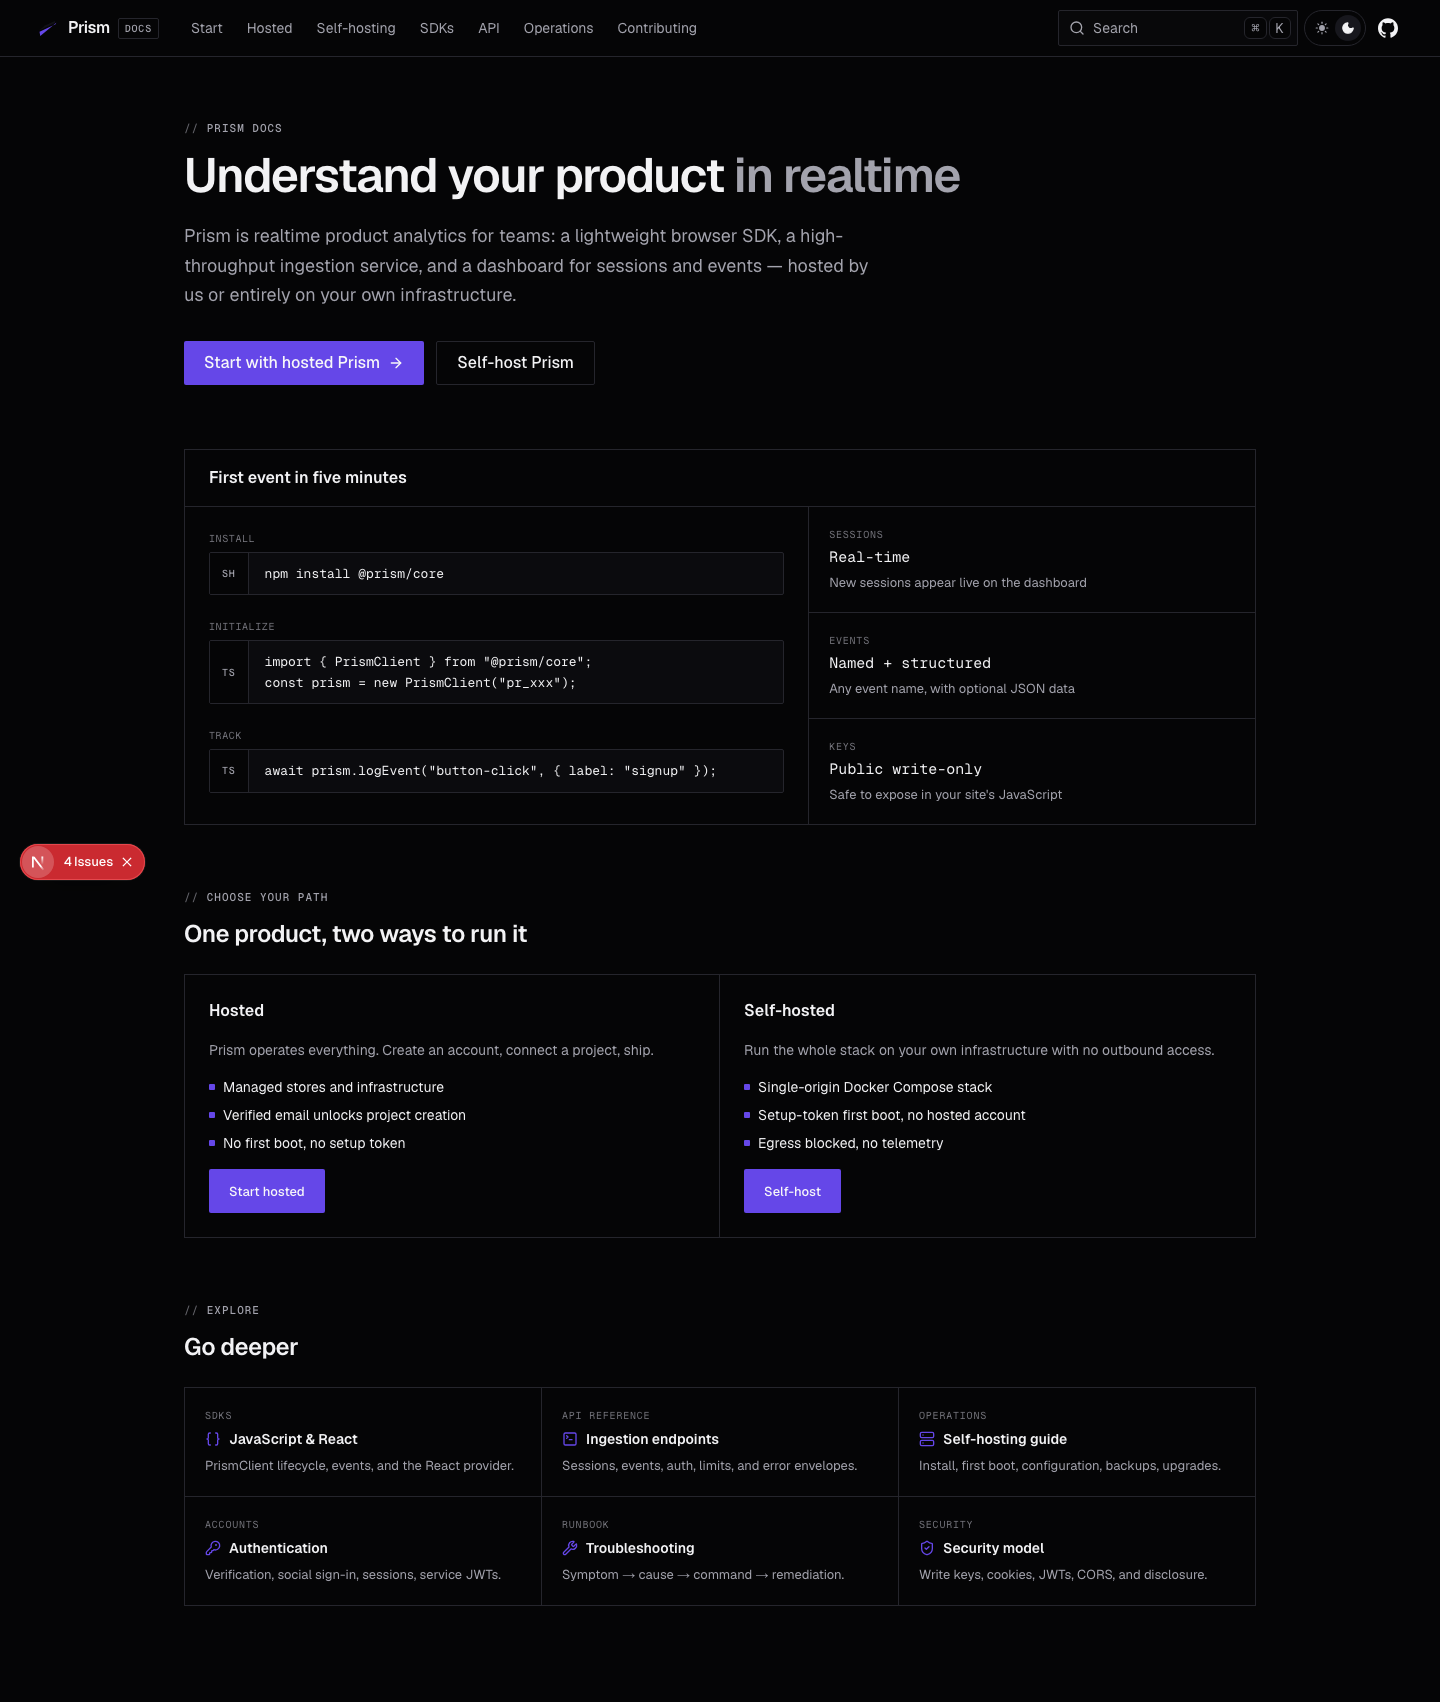
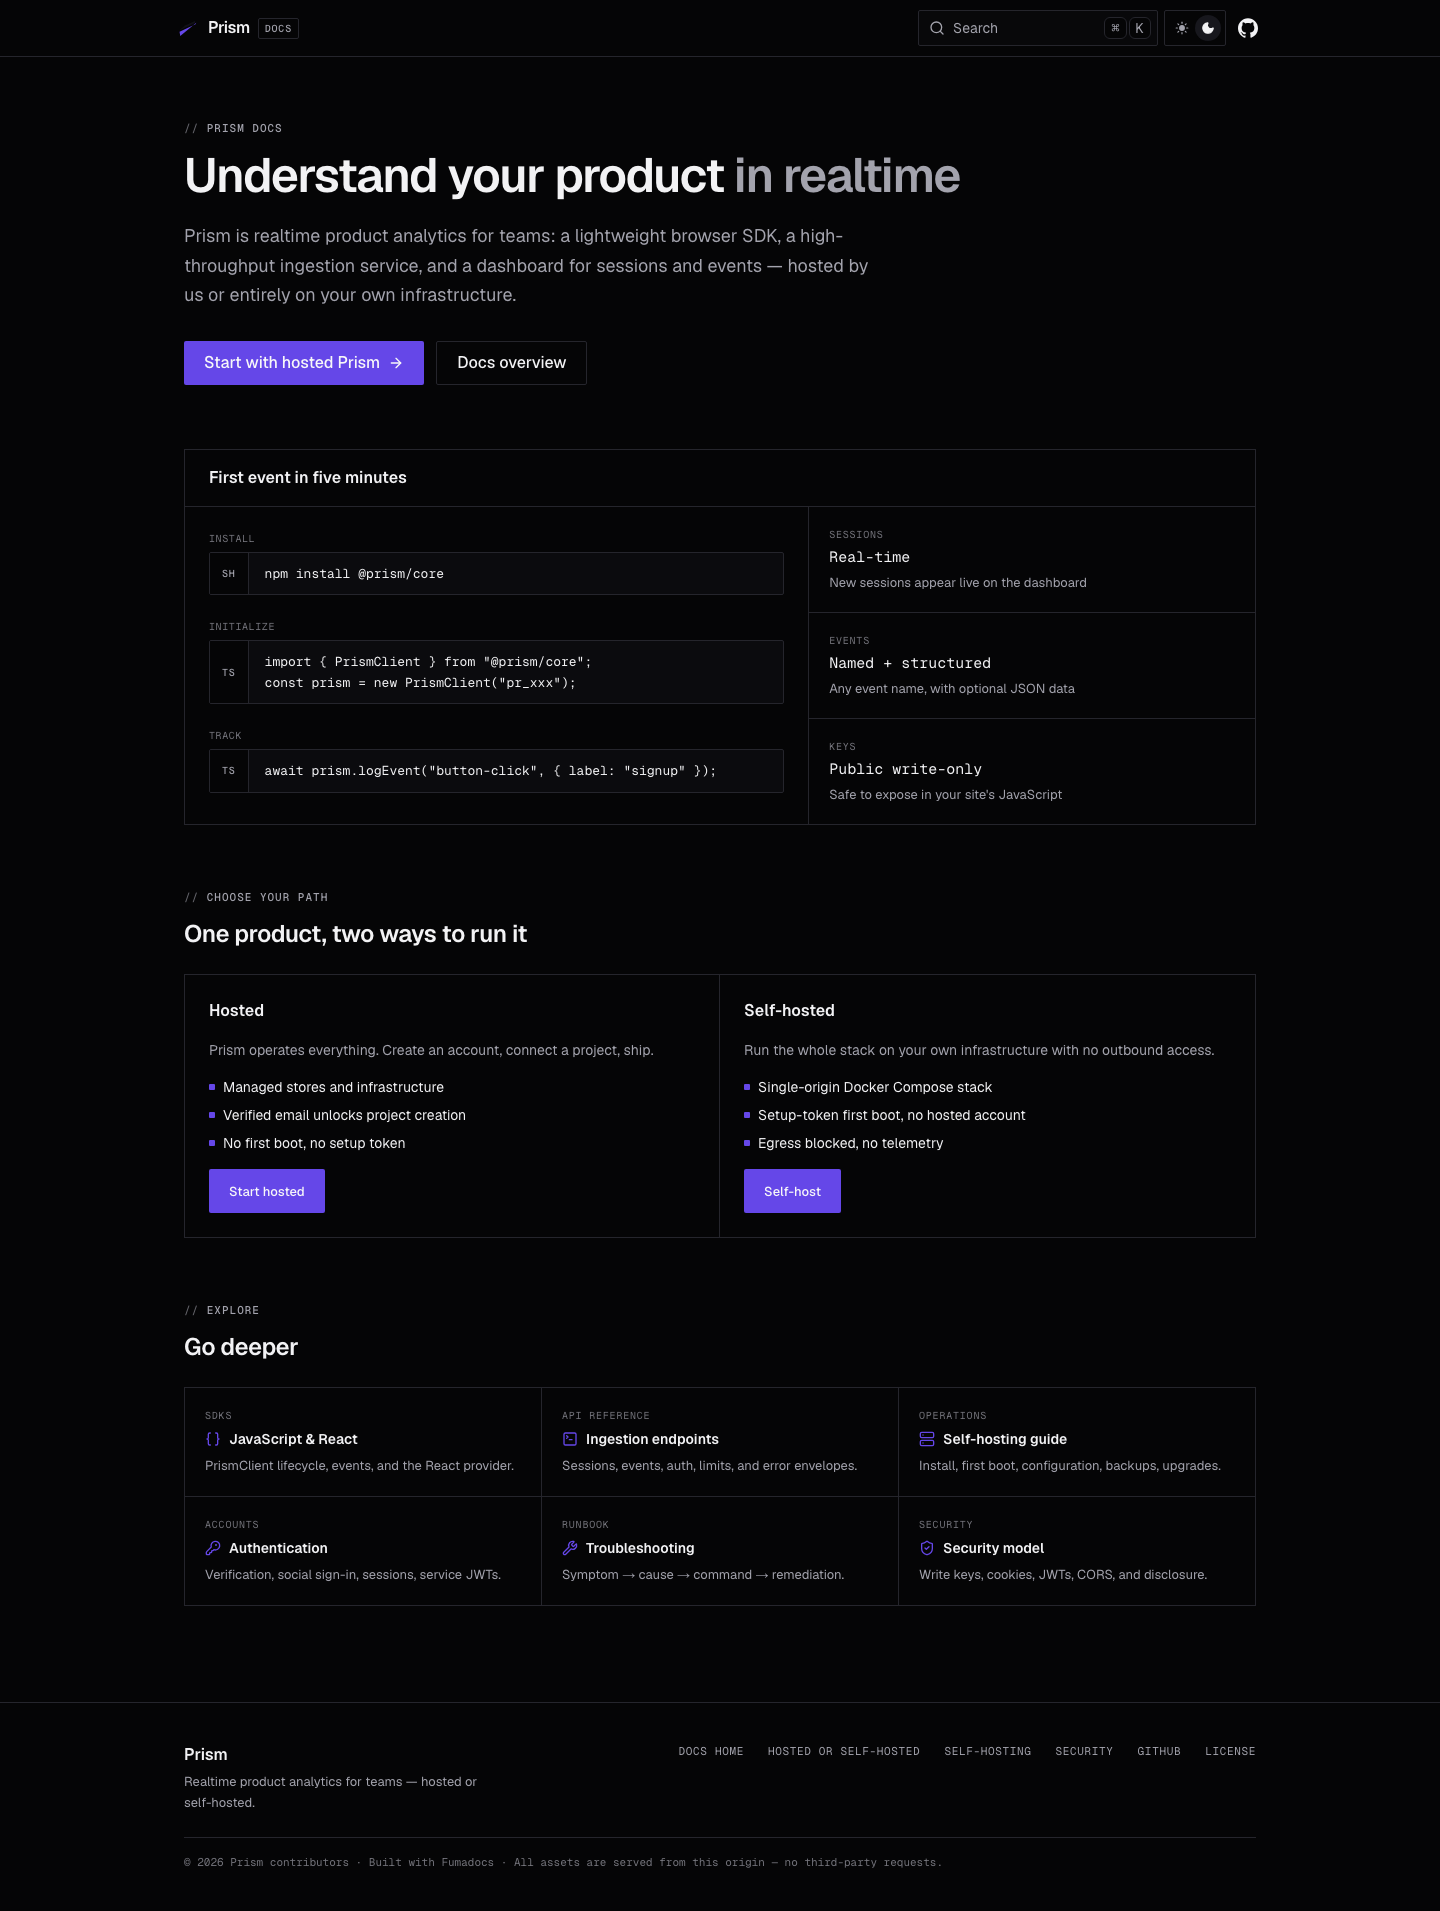
fix: slim the nav, move the overview CTA to the hero, add footer, align widths
Review pass on the docs shell:

- Header links: removed the 7 redundant nav links (Start/Hosted/
  Self-hosting/SDKs/API/Operations/Contributing) — the sidebar tree
  carries the navigation. The docs sidebar top is now just the logo +
  tree; the home nav is logo + search + theme + GitHub.
- Overview CTA: per review it belongs on the homepage hero, not the
  header — the hero's secondary action is now 'Docs overview'
  (-> /docs/start/overview), replacing 'Self-host Prism' (self-hosting
  remains reachable via the choose-your-path section and sidebar).
- Home layout width: the root main#nd-home-layout sets
  --fd-layout-width: 1400px; override to the 1120px rail so the home
  nav content, page content, and footer inner share the same centered
  width (verified 1920/1440/1280).
- Footer: new PrismFooter component (framed, mono links: docs home,
  hosted-or-self-hosted, self-hosting, security, GitHub, license +
  meta line). Rendered at the bottom of the homepage and inside the
  glass DocsPage main column (edge-to-edge via -mx-6); the built-in
  pagination footer is hidden so it never sits below the site footer.
- Docs pages: header == main column == footer at every width.

Verified: no console errors on home + docs pages, build 9/9, typecheck
7/7, lint 10/10; screenshots refreshed.

diff --git a/apps/docs-new/components/footer.tsx b/apps/docs-new/components/footer.tsx
@@ -1,0 +1,62 @@
+import Link from 'next/link';
+import { cn } from '@/lib/cn';
+
+const FOOTER_LINKS = [
+  { label: 'Docs home', href: '/' },
+  { label: 'Hosted or self-hosted', href: '/docs/start/choose' },
+  { label: 'Self-hosting', href: '/docs/self-hosting/evaluation/overview' },
+  { label: 'Security', href: '/docs/operations/security' },
+  { label: 'GitHub', href: 'https://github.com/OrekuD/prism', external: true },
+  {
+    label: 'License',
+    href: 'https://github.com/OrekuD/prism/blob/main/LICENSE',
+    external: true,
+  },
+];
+
+/**
+ * Prism footer (framed, mono links). Rendered inside the docs main column
+ * (`fullBleed` stretches it edge-to-edge over the column padding) and at the
+ * bottom of the homepage.
+ */
+export function PrismFooter({ fullBleed }: { fullBleed?: boolean }) {
+  return (
+    <footer
+      className={cn(
+        'border-t border-fd-border',
+        fullBleed && '-mx-6 mt-auto',
+      )}
+    >
+      <div className="mx-auto flex w-full max-w-(--fd-layout-width) flex-col gap-6 px-6 py-10">
+        <div className="flex flex-col gap-6 md:flex-row md:items-start md:justify-between">
+          <div>
+            <p className="font-semibold text-fd-foreground">Prism</p>
+            <p className="mt-1 max-w-[36ch] text-[13px] leading-relaxed text-fd-muted-foreground">
+              Realtime product analytics for teams — hosted or self-hosted.
+            </p>
+          </div>
+          <nav
+            aria-label="Footer"
+            className="flex flex-wrap gap-x-6 gap-y-1.5"
+          >
+            {FOOTER_LINKS.map((link) => (
+              <Link
+                key={link.label}
+                href={link.href}
+                target={link.external ? '_blank' : undefined}
+                rel={link.external ? 'noreferrer noopener' : undefined}
+                className="font-mono text-[11px] uppercase tracking-[0.06em] text-fd-muted-foreground transition-colors hover:text-fd-foreground"
+              >
+                {link.label}
+              </Link>
+            ))}
+          </nav>
+        </div>
+        <p className="border-t border-fd-border pt-4 font-mono text-[11px] text-fd-muted-foreground/70">
+          © 2026 Prism contributors · Built with Fumadocs · All assets are
+          served from this origin — no third-party requests.
+        </p>
+      </div>
+    </footer>
+  );
+}

diff --git a/apps/docs-new/app/global.css b/apps/docs-new/app/global.css
@@ -290,3 +290,52 @@ figure[data-rehype-pretty-code-figure],
   backdrop-filter: none;
   box-shadow: none;
 }
+
+/* ============================================================
+   Home layout: header aligns with the content
+   ============================================================ */
+
+/* The home nav content max-width comes from --fd-layout-width (1400px
+   default) while the homepage content is the design-system rail; make
+   them one value so the header edges match the content. */
+.nd-home-layout {
+  --fd-layout-width: 1120px;
+}
+
+/* Flatten the home header: solid canvas, no backdrop blur (the design
+   bans glassmorphism), 2px radius controls. */
+#nd-nav > div {
+  backdrop-filter: none;
+  background: var(--color-fd-background);
+}
+
+#nd-nav button,
+#nd-nav a {
+  border-radius: 2px;
+}
+
+/* The Docs overview CTA renders as a secondary-styled nav button; make
+   it the primary violet action. */
+#nd-nav a[href='/docs/start/overview'] {
+  background: var(--color-fd-primary);
+  color: var(--color-fd-primary-foreground);
+}
+
+#nd-nav a[href='/docs/start/overview']:hover {
+  background: color-mix(in srgb, var(--color-fd-primary) 90%, black);
+  color: var(--color-fd-primary-foreground);
+}
+
+/* The home layout root (main#nd-home-layout) sets --fd-layout-width to
+   1400px via a utility class; align it with the design-system rail so the
+   nav content matches the page content. */
+#nd-home-layout {
+  --fd-layout-width: 1120px;
+}
+
+/* The glass DocsPage renders its own pagination footer after the page
+   content; the site footer (PrismFooter) is rendered inside the page, so
+   the built-in pagination is hidden to avoid a footer below the footer. */
+.fd-glass-layout [data-fd-full] > div:last-child {
+  display: none;
+}

diff --git a/apps/docs-new/app/(home)/page.tsx b/apps/docs-new/app/(home)/page.tsx
@@ -1,5 +1,6 @@
 import Link from 'next/link';
 import { SectionLabel } from '@/components/prism/section-label';
+import { PrismFooter } from '@/components/footer';
 import {
   ArrowRight,
   Braces,
@@ -57,7 +58,8 @@ const PANELS = [
 
 export default function HomePage() {
   return (
-    <main className="mx-auto w-full max-w-[1120px] flex-1 px-4 pb-24 pt-16 md:px-6">
+    <>
+    <main className="mx-auto w-full max-w-(--fd-layout-width) flex-1 px-4 pb-24 pt-16 md:px-6">
       {/* Hero */}
       <section className="mb-16">
         <SectionLabel label="Prism Docs" />
@@ -79,10 +81,10 @@ export default function HomePage() {
             <ArrowRight className="size-4" aria-hidden />
           </Link>
           <Link
-            href="/docs/self-hosting/evaluation/overview"
+            href="/docs/start/overview"
             className="inline-flex h-11 items-center rounded-[2px] border border-fd-border px-5 font-medium text-fd-foreground transition-colors hover:border-fd-primary/60 hover:bg-fd-accent"
           >
-            Self-host Prism
+            Docs overview
           </Link>
         </div>
       </section>
@@ -204,6 +206,8 @@ export default function HomePage() {
         </div>
       </section>
     </main>
+    <PrismFooter />
+    </>
   );
 }
 

diff --git a/apps/docs-new/lib/layout.shared.tsx b/apps/docs-new/lib/layout.shared.tsx
@@ -9,19 +9,8 @@ export function baseOptions(): BaseLayoutProps {
       url: '/',
       transparentMode: 'top',
     },
-    links: [
-      { type: 'main', text: 'Start', url: '/docs/start/overview' },
-      { type: 'main', text: 'Hosted', url: '/docs/hosted/quickstart' },
-      {
-        type: 'main',
-        text: 'Self-hosting',
-        url: '/docs/self-hosting/evaluation/overview',
-      },
-      { type: 'main', text: 'SDKs', url: '/docs/sdks/javascript' },
-      { type: 'main', text: 'API', url: '/docs/api-reference/ingestion' },
-      { type: 'main', text: 'Operations', url: '/docs/operations/health' },
-      { type: 'main', text: 'Contributing', url: '/docs/contributing/development' },
-    ],
+    // No header links: the sidebar tree carries the navigation and the
+    // overview CTA lives on the homepage hero (review pass).
     githubUrl: `https://github.com/${gitConfig.user}/${gitConfig.repo}`,
   };
 }

diff --git a/apps/docs-new/app/docs/[[...slug]]/page.tsx b/apps/docs-new/app/docs/[[...slug]]/page.tsx
@@ -1,4 +1,5 @@
 import { getPageImageUrl, getPageMarkdownUrl, source } from '@/lib/source';
+import { PrismFooter } from '@/components/footer';
 import {
   DocsBody,
   DocsDescription,
@@ -82,6 +83,7 @@ export default async function Page(props: PageProps<'/docs/[[...slug]]'>) {
           })}
         />
       </DocsBody>
+      <PrismFooter fullBleed />
     </DocsPage>
   );
 }
